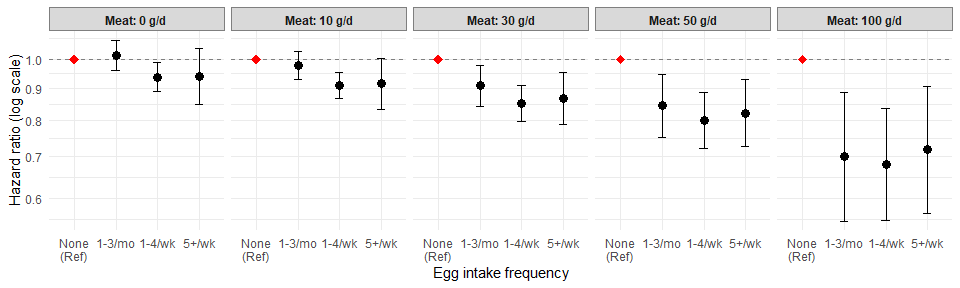
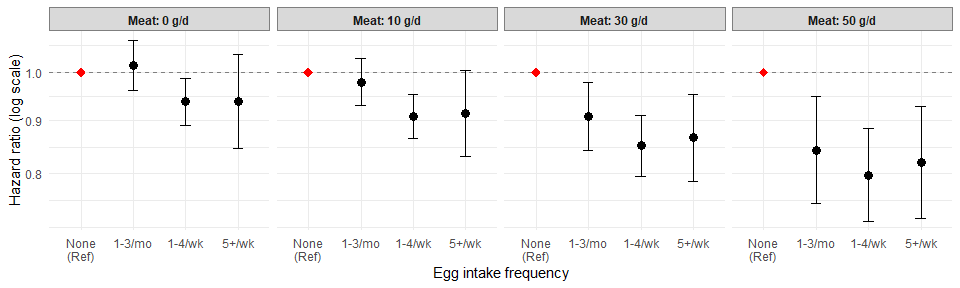
Remove meat at 100g/d

diff --git a/summary.md b/summary.md
@@ -591,40 +591,6 @@ P-trend (egg)
 
 <td style="text-align:left;">
 
-100
-</td>
-
-<td style="text-align:center;">
-
-1.66 (1.36, 2.03)
-</td>
-
-<td style="text-align:center;">
-
-1.16 (0.99, 1.36)
-</td>
-
-<td style="text-align:center;">
-
-1.13 (1.02, 1.25)
-</td>
-
-<td style="text-align:center;">
-
-1.19 (1.03, 1.38)
-</td>
-
-<td style="text-align:center;">
-
-0.0205
-</td>
-
-</tr>
-
-<tr>
-
-<td style="text-align:left;">
-
 P-trend (meat)
 </td>
 
@@ -873,40 +839,6 @@ P-trend
 
 </tr>
 
-<tr>
-
-<td style="text-align:left;">
-
-100
-</td>
-
-<td style="text-align:center;">
-
-1.00 (Ref)
-</td>
-
-<td style="text-align:center;">
-
-0.70 (0.55, 0.89)
-</td>
-
-<td style="text-align:center;">
-
-0.68 (0.55, 0.83)
-</td>
-
-<td style="text-align:center;">
-
-0.72 (0.57, 0.90)
-</td>
-
-<td style="text-align:center;">
-
-0.0205
-</td>
-
-</tr>
-
 </tbody>
 
 </table>
@@ -1106,35 +1038,6 @@ None
 
 </tr>
 
-<tr>
-
-<td style="text-align:left;">
-
-100
-</td>
-
-<td style="text-align:center;">
-
-1.00 (Ref)
-</td>
-
-<td style="text-align:center;">
-
-0.70 (0.55, 0.89)
-</td>
-
-<td style="text-align:center;">
-
-0.68 (0.55, 0.83)
-</td>
-
-<td style="text-align:center;">
-
-0.71 (0.56, 0.89)
-</td>
-
-</tr>
-
 </tbody>
 
 </table>
@@ -1306,35 +1209,6 @@ None
 <td style="text-align:center;">
 
 0.83 (0.74, 0.94)
-</td>
-
-</tr>
-
-<tr>
-
-<td style="text-align:left;">
-
-100
-</td>
-
-<td style="text-align:center;">
-
-1.00 (Ref)
-</td>
-
-<td style="text-align:center;">
-
-0.70 (0.55, 0.89)
-</td>
-
-<td style="text-align:center;">
-
-0.68 (0.56, 0.84)
-</td>
-
-<td style="text-align:center;">
-
-0.73 (0.58, 0.92)
 </td>
 
 </tr>
@@ -1555,40 +1429,6 @@ P-trend
 <td style="text-align:center;">
 
 0.0030
-</td>
-
-</tr>
-
-<tr>
-
-<td style="text-align:left;">
-
-100
-</td>
-
-<td style="text-align:center;">
-
-1.00 (Ref)
-</td>
-
-<td style="text-align:center;">
-
-0.68 (0.53, 0.87)
-</td>
-
-<td style="text-align:center;">
-
-0.68 (0.55, 0.84)
-</td>
-
-<td style="text-align:center;">
-
-0.72 (0.57, 0.91)
-</td>
-
-<td style="text-align:center;">
-
-0.0283
 </td>
 
 </tr>
